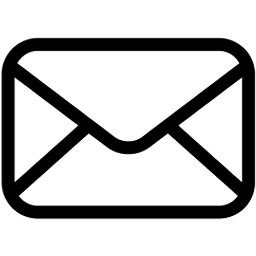
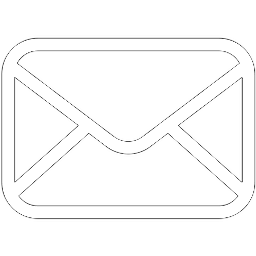
Added images for contact links.

Changed region(s): [[0.0, 0.125, 1.0, 0.875]]

diff --git a/app/assets/stylesheets/application.css b/app/assets/stylesheets/application.css
@@ -15,10 +15,6 @@
     margin: 0;
   }
 
-  img {
-    box-shadow: 0 0 15px black;
-  }
-
   input, textarea, button {
     color: black;
   }
@@ -94,14 +90,17 @@
     height: 50px;
     display: flex;
     align-items: center;
-    justify-content: center;
+    justify-content: space-around;
     position: absolute;
     bottom: 0;
-
   }
 
   #footer a {
-    margin-left: 5px;
+    height: 35px;
+  }
+
+  #footer img {
+    width: 35px;
   }
 
   #gallery {
@@ -116,6 +115,7 @@
     margin-bottom: 2.5px;
     border-radius: 2.5px;
     transition: 0.2s;
+    box-shadow: 0 0 15px black;
   }
 
   #gallery img:hover {
@@ -162,6 +162,7 @@
   #silver-portrait {
     border-radius: 50%;
     margin-top: 15px;
+    box-shadow: 0 0 15px black;
   }
 }
 
@@ -206,23 +207,24 @@
     display: flex;
     flex-direction: column;
   }
-
-  #contact {
-    background-color: black;
-  }
   
   #footer {
     display: flex;
     align-items: center;
-    justify-content: space-between;
+    justify-content: flex-end;
     background-color: black;
-    height: 25px;
+    height: 50px;
     padding-left: 5px;
-    padding-right: 5px;
+    padding-right: 15px;
   }
   
   #footer a {
-    margin-left: 5px;
+    height: 35px;
+    margin-left: 15px;
+  }
+
+  #footer img {
+    width: 35px;
   }
   
   #gallery {
@@ -251,7 +253,7 @@
     background-color: rgba(50, 50, 50, 1);
     padding-left: calc(33.333% / 2);
     padding-right: calc(33.333% / 2);
-    height: calc(100vh - 75px);
+    height: calc(100vh - 100px);
     overflow-y: scroll;
   }
   

diff --git a/app/javascript/packs/components/Footer.js b/app/javascript/packs/components/Footer.js
@@ -1,14 +1,16 @@
 import React from 'react'
+import instagramLogo from '../../../assets/images/instagram-logo.png'
+import emailIcon from '../../../assets/images/email-icon.png'
 
 const Footer = () => {
   return(
     <div id='footer'>
-      <div id='contact'>
-        email: silsepme@gmail.com | insta: @sigh.like.the.moon
-      </div>
-      <div id='dev-credit'>
+        {/* email: silsepme@gmail.com | insta: @sigh.like.the.moon */}
+        <a href='https://www.instagram.com/sigh.like.the.moon/' target='_blank'><img id='instagram-logo' src={instagramLogo} alt='instagram-logo' /></a>
+        <a href='mailto:silsepme@gmail.com'><img id='email-icon' src={emailIcon} alt='email-icon' /></a>
+      {/* <div id='dev-credit'>
         Made with ❤ by <a href='https://ericmtodd.herokuapp.com' target='_blank'>Eric M. Todd</a>
-      </div>
+      </div> */}
     </div>
   )
 }
